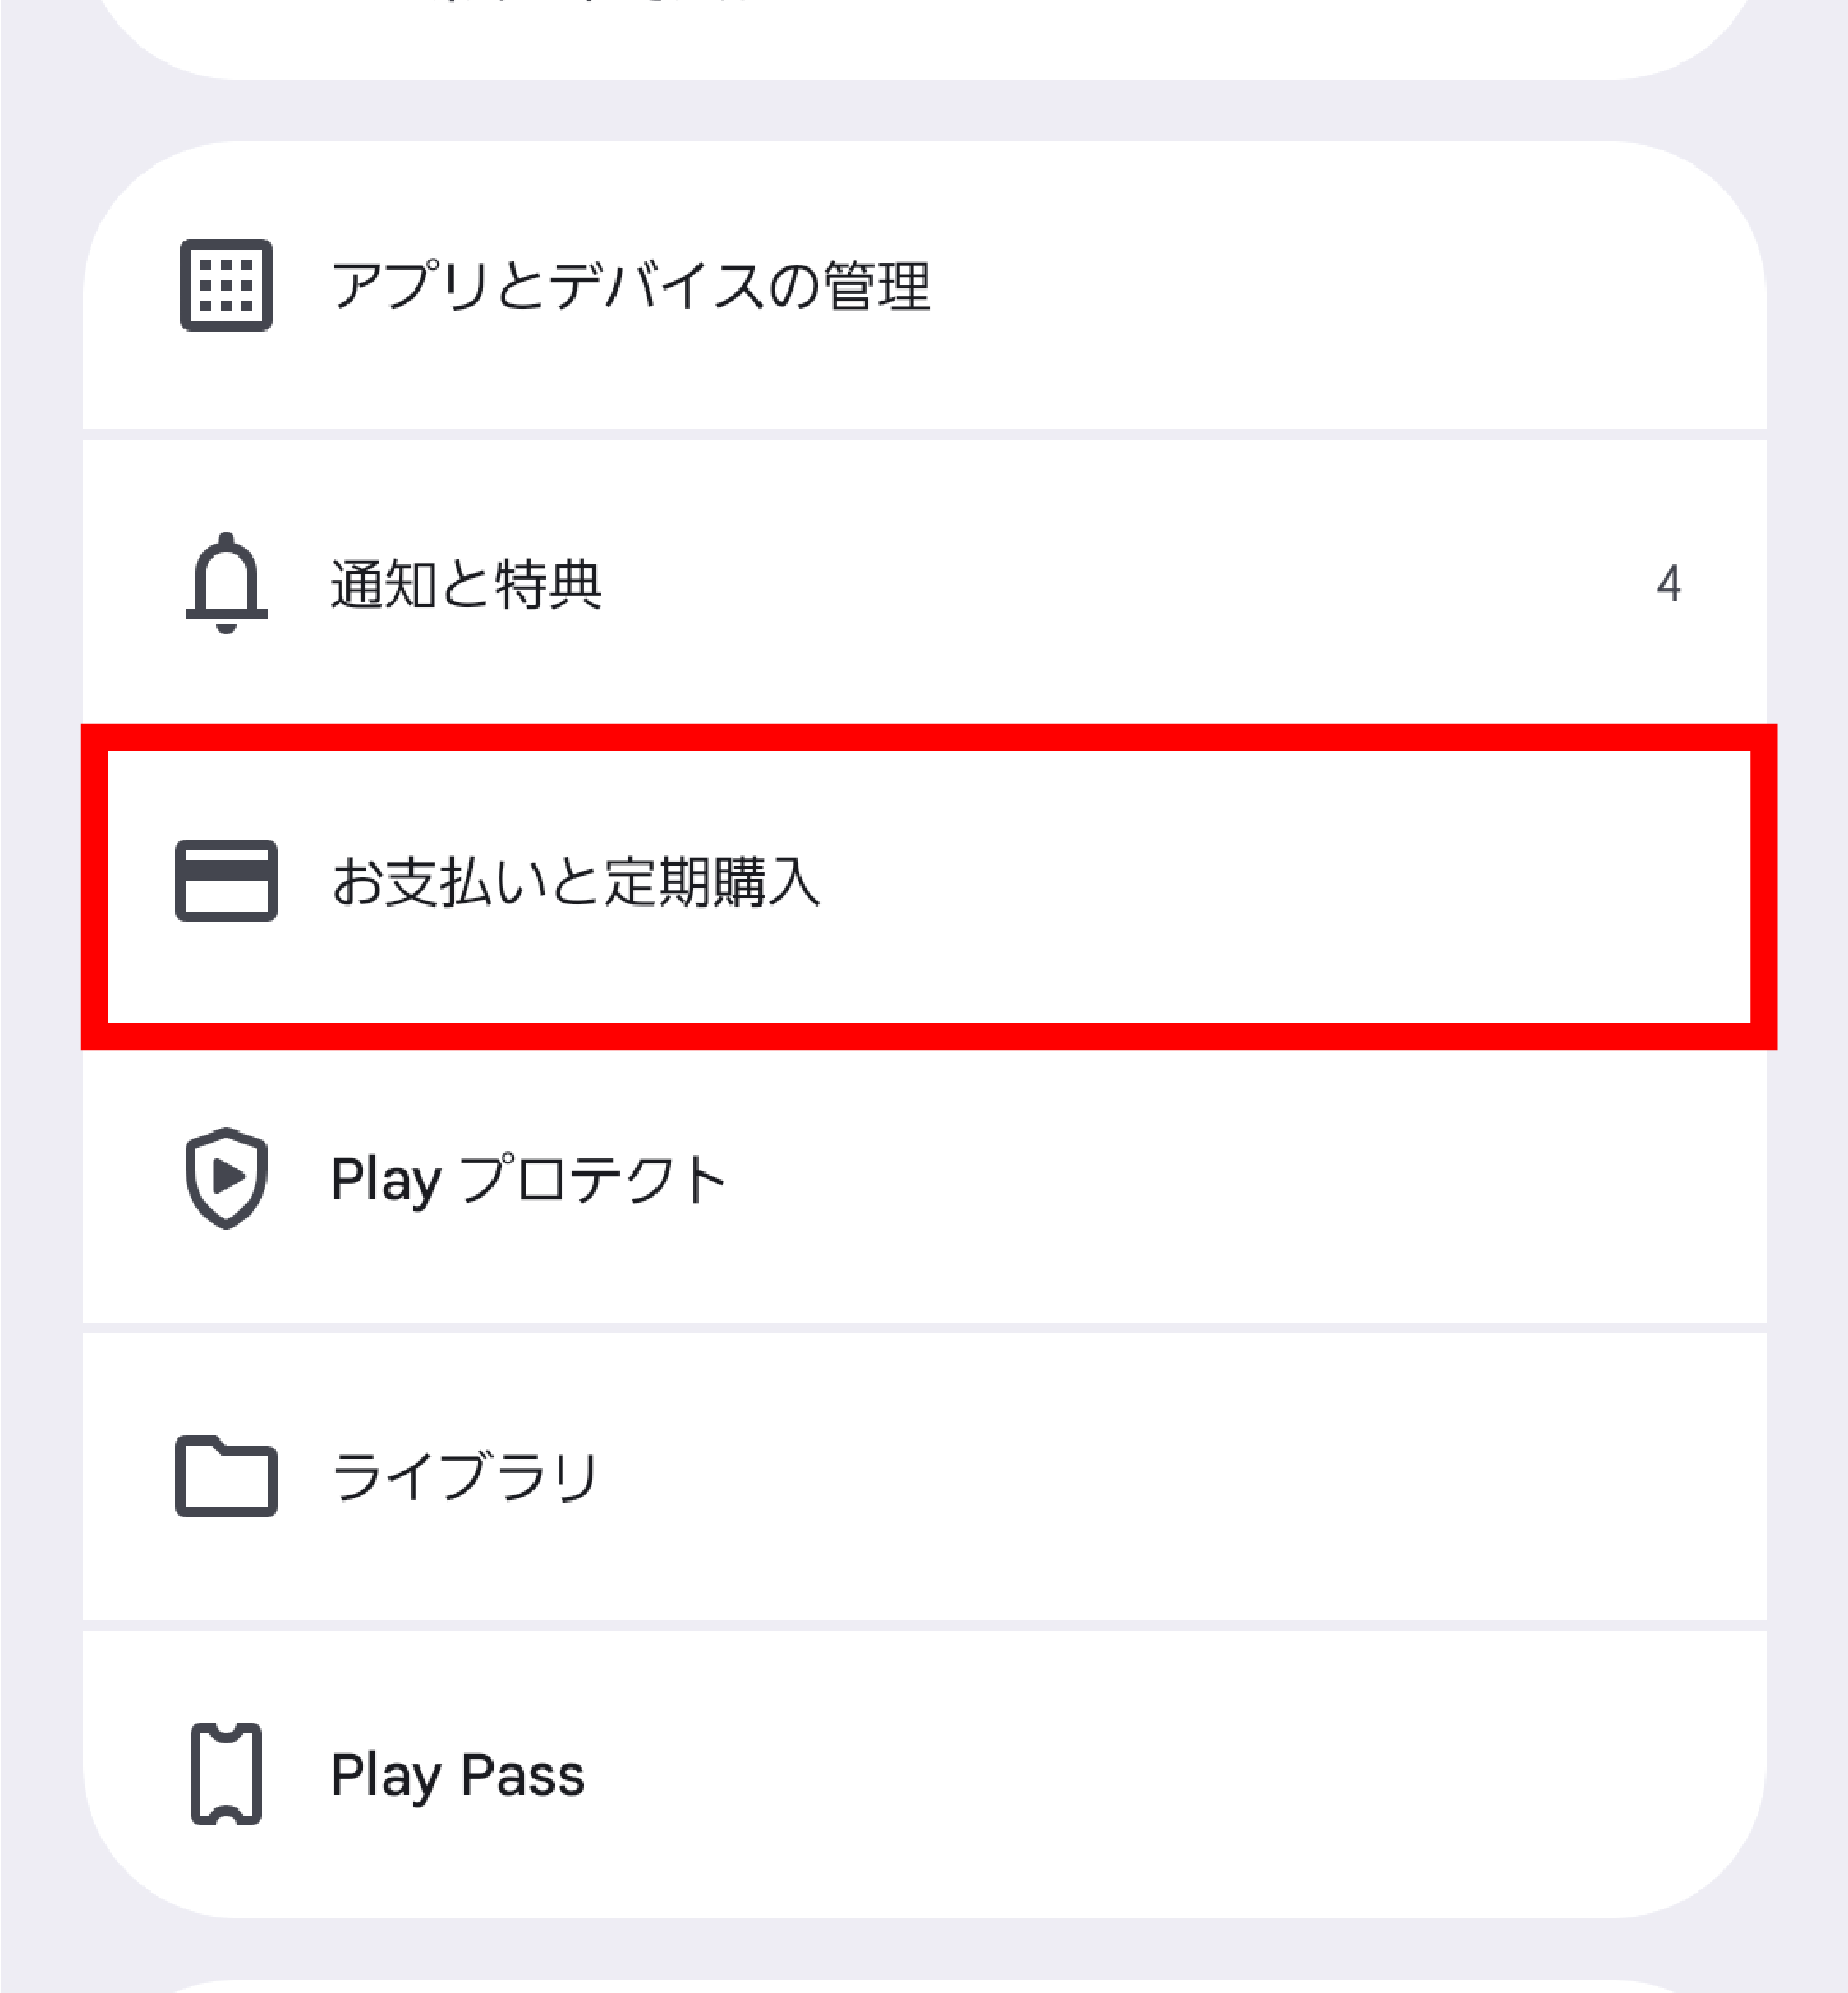
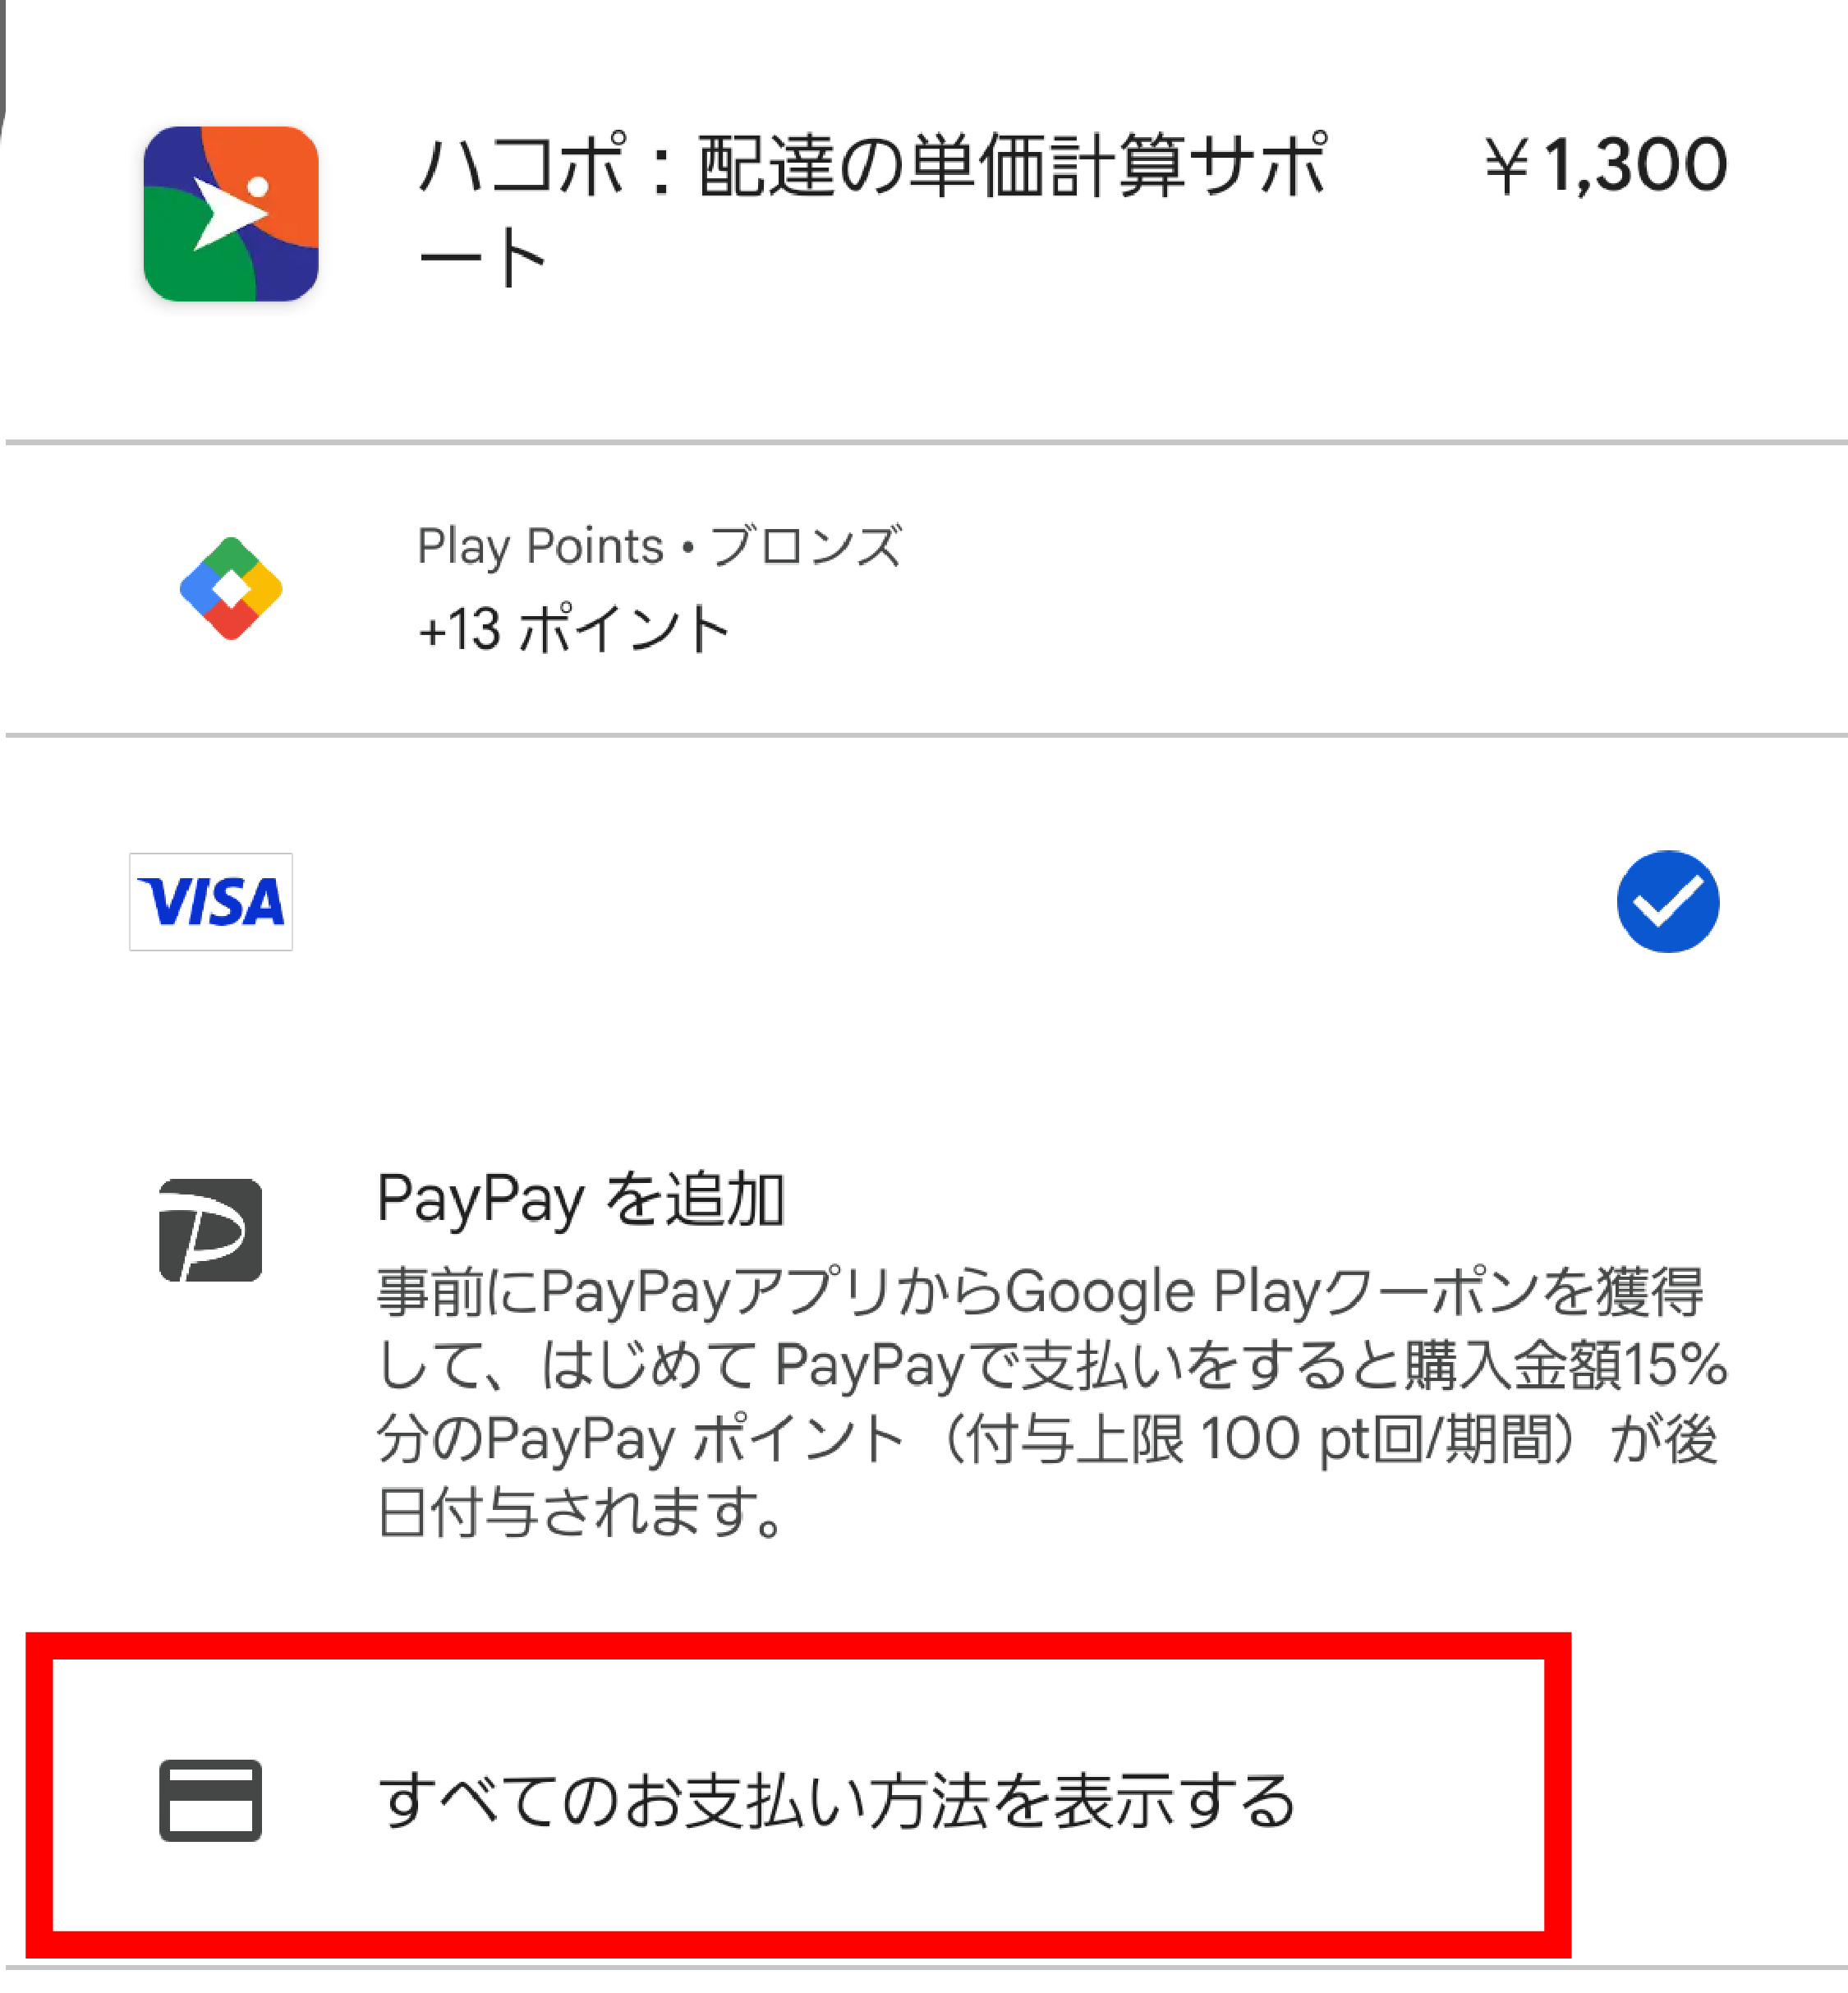
change

diff --git a/testers.html b/testers.html
@@ -51,10 +51,13 @@
     <figure><img src="tester_desc_01.png" alt="コード利用の手順1"><figcaption>①</figcaption></figure>
     <figure><img src="tester_desc_02.png" alt="コード利用の手順2"><figcaption>②</figcaption></figure>
     <figure><img src="tester_desc_03.png" alt="コード利用の手順3"><figcaption>③</figcaption></figure>
+    <figure><img src="tester_desc_04.png" alt="コード利用の手順4"><figcaption>④</figcaption></figure>
   </div>
   <ol>
-    <li>Google Play アプリ → 右上のアカウントアイコン → 「お支払いと定期購入」→「コードを利用」</li>
-    <li>下のコードを1つ入力 → 適用 → ハコポを ¥0 でインストール</li>
+    <li>ステップ②の「Google Play でハコポを開く」からハコポのページを開く</li>
+    <li>価格（購入）ボタンをタップ</li>
+    <li>購入画面の「コードを利用／プロモーションコード」に、下のコードを1つ入力</li>
+    <li>適用すると ¥0 になるので、そのままインストール</li>
   </ol>
   <div class="codes">
     <div class="code">2FG6MB0XT8U6BYNS1UFH2M4</div>